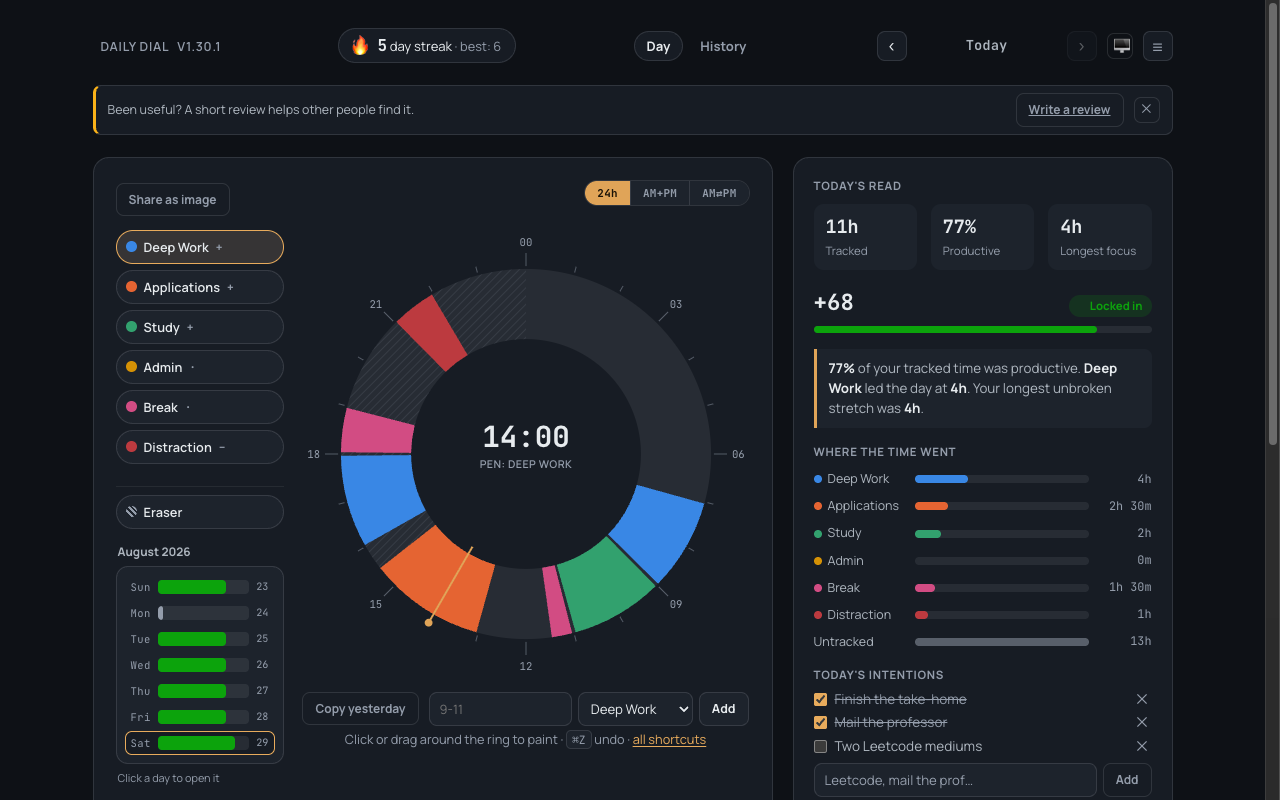
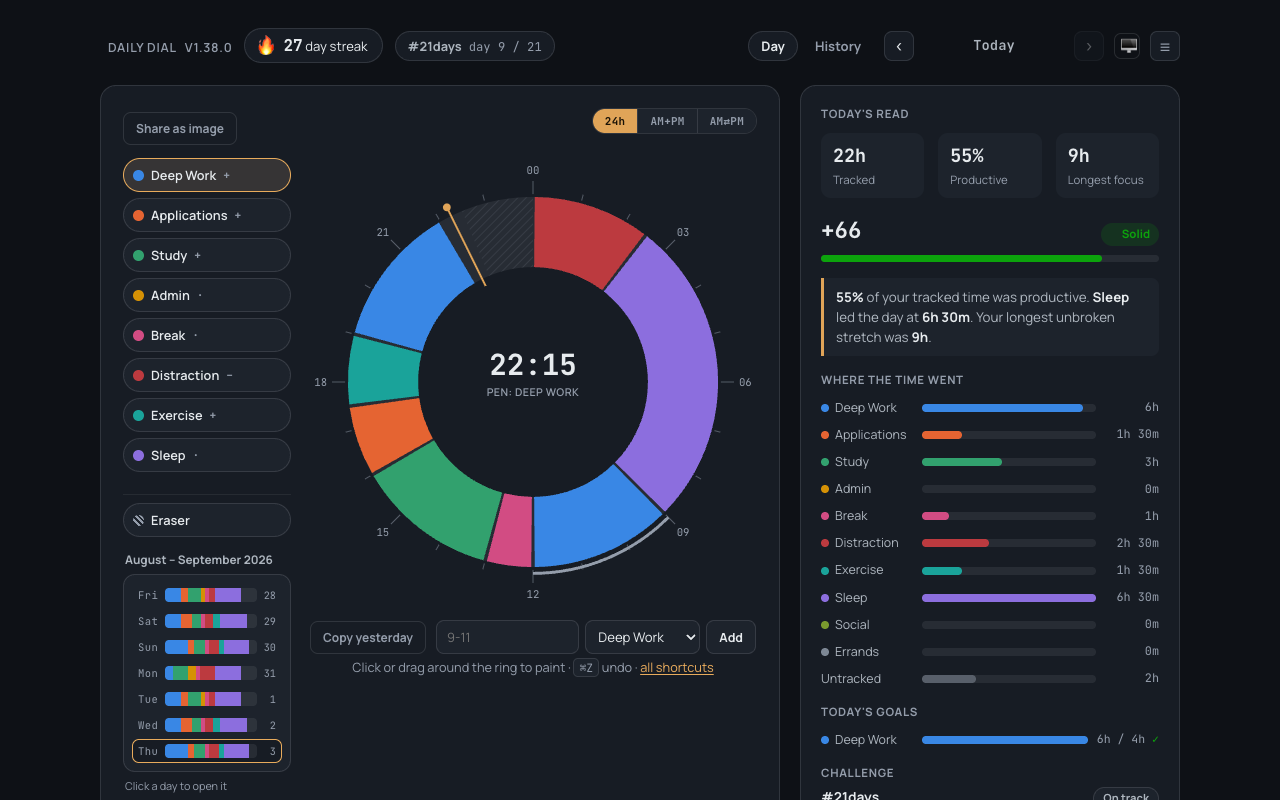
Bring the docs, the listings and the screenshots up to the product
The written record had drifted behind three releases. The README and
the About page still described six category slots and keys 1-6; both
store listings said the same in the text people actually read before
installing; the tour page described a category editor without colours;
and the FAQ had nothing on challenges. All corrected, including the
new sections for challenges and category colours.

The store screenshots were the worse problem. They were made by hand
at v1.31.0 and had been advertising a scoring rule the app no longer
uses, a layout it no longer has, and six categories where there are
now ten. Nothing caught it because a screenshot cannot fail a build.
npm run shots regenerates all four from the running extension at the
1280x800 the Store demands, so the next drift is one command away from
being fixed rather than an afternoon.

Three bugs in that script, each caught by looking at the output rather
than trusting the run:

The second shot used a selector that does not exist, scrolled nowhere,
and wrote a byte-identical copy of the first. It now aims at a real
element and fails loudly if the two files match.

Aiming at an element near the bottom of a short page scrolled past the
content and photographed the empty space underneath it.

And captureScreenshot's `clip` is in page coordinates, not viewport
ones, so a clipped capture returns the top of the document however far
the page has scrolled -- which is why the scrolled shot kept coming
[…]

diff --git a/docs/about.md b/docs/about.md
@@ -27,16 +27,18 @@ the hours actually went toward the applications.
 |---|---|
 | **Paint** | Pick a category, then click or drag around the ring |
 | **Erase** | Choose the Eraser pen, or press <kbd>0</kbd>/<kbd>E</kbd>, then drag over a block |
-| **Pick a pen** | Click one, or press <kbd>1</kbd>–<kbd>6</kbd> |
+| **Pick a pen** | Click one, or press <kbd>1</kbd>–<kbd>9</kbd> |
 | **Type an entry** | `9-11 deep work`, `13:30-15 applications`, `9pm-11pm study` — or your own alias, e.g. `9-11 leetcode` |
-| **Category aliases** | Link your own words to a category (Settings → Categories) so typed entries recognize them |
+| **Category aliases** | Link your own words to a category (Settings → Categories) so typed entries recognize them — hover a pen to see what it answers to |
 | **Copy yesterday** | Fills today from the previous day; confirms before overwriting |
 | **Undo / redo** | <kbd>⌘Z</kbd> / <kbd>⇧⌘Z</kbd> (<kbd>Ctrl+Z</kbd> / <kbd>Ctrl+Shift+Z</kbd>) — 30 deep |
 | **Past days** | Arrows beside the date, or click a bar in the week strip |
-| **History** | A month heatmap, month summary, week-over-week deltas, per-category trends, and search across your notes — the History tab beside Day |
+| **History** | A month heatmap, month summary, week-over-week deltas, per-category trends, and search across your notes — the History tab beside Day. Colour the month by score, by hours logged, or by the category each day led with |
 | **Dial layout** | One 24-hour ring, two 12-hour AM/PM rings side by side, or one 12-hour ring with a switch — pick one via the quick switcher above the dial, or Settings → Appearance |
 | **Toolbar badge** | Today's score on the extension icon itself, coloured to match — no click needed |
 | **Streaks** | 🔥 counts any day with at least one block; one missed day a week is forgiven |
+| **Challenges** | A named run of consecutive days with a goal of your own — anything logged, minutes of a category, or a score. It says how many days in a row you have kept, whether today counts, and whether the run is still alive |
+| **Category colours** | Click the swatch in Settings → Categories. The ring, pens, week strip, bars, calendar and shared image all follow |
 | **Goals** | Optional per-category targets, daily or weekly, with progress shown in the side panel |
 | **Waking hours** | The "still unlogged" nag only counts time inside this window, so sleep isn't mistaken for a gap |
 | **Reminders** | Two a day plus an optional weekly recap, all off by default, times are yours |
@@ -81,13 +83,21 @@ instead of silently flattering your numbers.
 
 ### Categories
 
-Six slots, renameable, reweightable, hideable. Days store the slot *index*, not
-the name, so renaming a category never rewrites your history.
+Ten slots, renameable, reweightable, hideable, and each with a colour of its
+own. Days store the slot *index*, not the name, so renaming a category never
+rewrites your history — and never repaints a day you logged months ago.
 
-The defaults assume a job or university search — **Deep Work, Applications,
-Study, Admin, Break, Distraction** — with Applications broken out deliberately,
-so you can see at a glance whether you actually spent time on applications or
-only on studying.
+Six are on by default and assume a job or university search — **Deep Work,
+Applications, Study, Admin, Break, Distraction** — with Applications broken out
+deliberately, so you can see at a glance whether you actually spent time on
+applications or only on studying.
+
+Four more are there and switched off: **Exercise, Sleep, Social, Errands**. The
+app's own observations suggest repurposing an unused category for a life area
+going untracked, which is no advice at all to someone already using all six.
+
+Click a category's swatch to give it a colour; the ↺ beside it hands the slot
+back to the default, which also puts it back under the theme's control.
 
 ### Languages
 

diff --git a/README.md b/README.md
@@ -100,16 +100,18 @@ first time you open it.
 |---|---|
 | **Paint** | Pick a category, then click or drag around the ring |
 | **Erase** | Choose the Eraser pen, or press <kbd>0</kbd>/<kbd>E</kbd>, then drag over a block |
-| **Pick a pen** | Click one, or press <kbd>1</kbd>–<kbd>6</kbd> |
+| **Pick a pen** | Click one, or press <kbd>1</kbd>–<kbd>9</kbd> |
 | **Type an entry** | `9-11 deep work`, `13:30-15 applications`, `9pm-11pm study` — or your own alias, e.g. `9-11 leetcode` |
-| **Category aliases** | Link your own words to a category (Settings → Categories) so typed entries recognize them |
+| **Category aliases** | Link your own words to a category (Settings → Categories) so typed entries recognize them — hover a pen to see what it answers to |
 | **Copy yesterday** | Fills today from the previous day; confirms before overwriting |
 | **Undo / redo** | <kbd>⌘Z</kbd> / <kbd>⇧⌘Z</kbd> (<kbd>Ctrl+Z</kbd> / <kbd>Ctrl+Shift+Z</kbd>) — 30 deep |
 | **Past days** | Arrows beside the date, or click a bar in the week strip |
-| **History** | A month heatmap, month summary, week-over-week deltas, per-category trends, and search across your notes — the History tab beside Day |
+| **History** | A month heatmap, month summary, week-over-week deltas, per-category trends, and search across your notes — the History tab beside Day. Colour the month by score, by hours logged, or by the category each day led with |
 | **Dial layout** | One 24-hour ring, two 12-hour AM/PM rings side by side, or one 12-hour ring with a switch — pick one via the quick switcher above the dial, or Settings → Appearance |
 | **Toolbar badge** | Today's score on the extension icon itself, coloured to match — no click needed |
 | **Streaks** | 🔥 counts any day with at least one block; one missed day a week is forgiven |
+| **Challenges** | A named run of consecutive days with a goal of your own — anything logged, minutes of a category, or a score. It says how many days in a row you have kept, whether today counts, and whether the run is still alive |
+| **Category colours** | Click the swatch in Settings → Categories. The ring, pens, week strip, bars, calendar and shared image all follow |
 | **Goals** | Optional per-category targets, daily or weekly, with progress shown in the side panel |
 | **Waking hours** | The "still unlogged" nag only counts time inside this window, so sleep isn't mistaken for a gap |
 | **Reminders** | Two a day plus an optional weekly recap, all off by default, times are yours |
@@ -154,13 +156,21 @@ instead of silently flattering your numbers.
 
 ### Categories
 
-Six slots, renameable, reweightable, hideable. Days store the slot *index*, not
-the name, so renaming a category never rewrites your history.
+Ten slots, renameable, reweightable, hideable, and each with a colour of its
+own. Days store the slot *index*, not the name, so renaming a category never
+rewrites your history — and never repaints a day you logged months ago.
 
-The defaults assume a job or university search — **Deep Work, Applications,
-Study, Admin, Break, Distraction** — with Applications broken out deliberately,
-so you can see at a glance whether you actually spent time on applications or
-only on studying.
+Six are on by default and assume a job or university search — **Deep Work,
+Applications, Study, Admin, Break, Distraction** — with Applications broken out
+deliberately, so you can see at a glance whether you actually spent time on
+applications or only on studying.
+
+Four more are there and switched off: **Exercise, Sleep, Social, Errands**. The
+app's own observations suggest repurposing an unused category for a life area
+going untracked, which is no advice at all to someone already using all six.
+
+Click a category's swatch to give it a colour; the ↺ beside it hands the slot
+back to the default, which also puts it back under the theme's control.
 
 ### Languages
 

diff --git a/docs/STORE_LISTING.md b/docs/STORE_LISTING.md
@@ -78,12 +78,15 @@ search does not surface it on its own.
 ✅ Daily Dial: one drag. Fast enough for every day, honest enough to catch everything.
 
 ✍ HOW IT WORKS
-🖱 Drag around the ring to paint — or press 1-6 for a pen, 0/E for the eraser
+🖱 Drag around the ring to paint — or press 1-9 for a pen, 0/E for the eraser
 ⌨ Type it instead: "9-11 deep work" or "9pm-11pm study"
 ↩ Ctrl+Z / Cmd+Z undoes one stroke at a time, 30 deep — Ctrl+Shift+Z redoes
 📋 Copy yesterday into today in one click
 🧭 A live needle always marks "now"
 📅 Jump days with the arrows, or click any bar in the 7-day strip
+
+📅 A MONTH AT A GLANCE
+Colour the History calendar three ways — by score, by hours logged, or by the category each day led with. "How did it go" and "what was this month made of" are different questions.
 
 📊 WAS TODAY ACTUALLY PRODUCTIVE?
 🎯 A daily score, from your categories' weights
@@ -94,12 +97,15 @@ search does not surface it on its own.
 
 🔥 STAY WITH IT
 🔥 Streak counter — one missed day a week forgiven, so one slip doesn't cost you weeks
+🏁 Challenges — a named run of consecutive days with a goal you set: anything logged, minutes of a category, or a daily score. It tells you how many days in a row you've kept, whether today counts, and whether the run is still alive. Miss a day and it says so — a run that tolerates gaps isn't a run
 🎯 Optional daily goals per category, with a progress bar
 📬 Optional weekly recap: time tracked, top category, best day, streak
 
 🎨 MADE YOUR OWN
-6 category slots — rename, reweight, hide the ones you don't use.
-Defaults: Deep Work · Applications · Study · Admin · Break · Distraction
+10 category slots — rename, reweight, recolour, hide the ones you don't use.
+On by default: Deep Work · Applications · Study · Admin · Break · Distraction
+There and switched off: Exercise · Sleep · Social · Errands
+🎨 Click a category's swatch to pick its colour — the ring, week strip, calendar and shared image all follow
 🔒 Renaming is safe — days store the slot, never the name, so history never rewrites.
 
 🌍 IN YOUR LANGUAGE
@@ -147,15 +153,21 @@ MIT licensed. A few small files of plain, unminified JavaScript — readable in 
 | Asset | Size | Required | File |
 |---|---|---|---|
 | Store icon | 128×128 PNG | Yes | `icons/icon-128.png` |
-| Screenshot | 1280×800 PNG | Yes (1–5) | `docs/store/screenshot-*.png` |
+| Screenshot | 1280×800 PNG | Yes (1–5) | `docs/store/screenshot-*.png` — run `npm run shots` |
 | Small promo tile | 440×280 PNG | For featuring | `docs/store/promo-440x280.png` |
 | Marquee promo tile | 1400×560 PNG | For featuring | `docs/store/promo-1400x560.png` |
 
 Screenshot captions, in order:
 
 1. *Paint a day in seconds — pick a category and drag around the ring*
-2. *See whether the time went where you meant it to*
-3. *Make the categories yours, and set two gentle daily reminders*
+2. *See whether the time went where you meant it to, and how the run is going*
+3. *A month at a glance, coloured by score, hours, or what each day was spent on*
+4. *Ten categories, each with its own colour, weight and words*
+
+`npm run shots` regenerates all four from the running extension at the size
+the Store requires. They were hand-made once and went stale for months —
+advertising a scoring rule the app had replaced — which nothing caught,
+because a screenshot cannot fail a build.
 
 ---
 

diff --git a/docs/AMO_LISTING.md b/docs/AMO_LISTING.md
@@ -118,13 +118,17 @@ Daily Dial asks for one drag. Fast enough to do every day, honest enough to catc
 
 HOW IT WORKS
 
-• Drag around the ring to paint — or press 1-6 for a pen, 0 or E for the eraser
+• Drag around the ring to paint — or press 1-9 for a pen, 0 or E for the eraser
 • Type it instead: "9-11 deep work" or "9pm-11pm study"
 • Ctrl+Z / Cmd+Z undoes one stroke at a time, 30 deep — Ctrl+Shift+Z redoes
 • Ctrl+Shift+Y / Cmd+Shift+Y opens the dial from anywhere (rebindable)
 • Copy yesterday into today in one click
 • A live needle always marks "now"
 • Jump days with the arrows, or click any bar in the 7-day strip
+
+A MONTH AT A GLANCE
+
+Colour the History calendar by score, by hours logged, or by the category each day led with. "How did it go" and "what was this month made of" are different questions, and one scale cannot answer both.
 
 WAS TODAY ACTUALLY PRODUCTIVE?
 
@@ -137,13 +141,17 @@ WAS TODAY ACTUALLY PRODUCTIVE?
 STAY WITH IT
 
 • A streak counter that forgives one missed day a week, so one slip doesn't cost you a month
+• Challenges — a named run of consecutive days with a goal you set. It says how many you have kept in a row, whether today counts, and whether the run can still be finished. One missed day ends it, because a run that tolerates gaps is not a run
 • Optional daily goals per category, with a progress bar
 • An optional weekly recap: time tracked, top category, best day, streak
 
 MADE YOUR OWN
 
-Six category slots — rename them, reweight them, hide the ones you don't use.
-Defaults: Deep Work, Applications, Study, Admin, Break, Distraction.
+Ten category slots — rename them, reweight them, recolour them, hide the ones you don't use.
+On by default: Deep Work, Applications, Study, Admin, Break, Distraction.
+There and switched off: Exercise, Sleep, Social, Errands.
+
+Click a category's swatch to pick its colour. The ring, the week strip, the calendar and the shared image all follow.
 
 Renaming is safe. Days store the slot, never the name, so your history never rewrites itself behind you.
 

diff --git a/docs/tour.md b/docs/tour.md
@@ -20,11 +20,31 @@ Three cards, then you are painting. Everything except painting is optional.
 
 ## Categories are yours
 
-Six slots — rename them, change whether each counts for or against your
-score, hide the ones you do not use. Days store the slot, never the name, so
-renaming never rewrites your history.
+Ten slots — rename them, recolour them, change whether each counts for or
+against your score, hide the ones you do not use. Days store the slot, never
+the name, so renaming never rewrites your history, and never repaints a day
+you logged months ago.
+
+Six are on to begin with. Four more — Exercise, Sleep, Social, Errands — are
+there and switched off, for the life areas the app's own observations most
+often point at.
+
+Each category's swatch is its colour picker. Change one and the ring, the
+pens, the week strip, the bars, the calendar and the shared image all follow;
+the ↺ beside it hands the slot back to the default.
 
 ![The category editor, with aliases](getting-started/03-settings-categories.png)
+
+## A run you can actually keep
+
+A challenge is a named stretch of consecutive days with a goal you set —
+anything logged at all, so many minutes of one category, or a daily score.
+
+The card says how many days in a row you have kept, what the goal is, whether
+the day you are looking at counts, and whether the run can still be finished.
+One missed day ends it and it tells you which day: a run that tolerates gaps
+is a weaker thing wearing the same name. When it breaks, one button starts the
+same challenge again from today.
 
 ## Your data, and getting it out
 

diff --git a/docs/faq.md b/docs/faq.md
@@ -54,3 +54,26 @@ Yes, and open source under the MIT licence. No ads, analytics, telemetry, or pai
 It doesn't block sites, enforce anything, auto-capture what you're doing, manage tasks, or connect to your calendar. It shows you where the time went and stops there. Guides on the site cover tools that handle the blocking part.
 
 Still stuck? [Open an issue](https://github.com/pranav083/daily-dial-extension/issues/new/choose) — questions are welcome, not just bugs.
+
+## Can I change a category's colour?
+
+Yes. Settings → Categories, and click the swatch beside a category's name —
+that swatch is the picker. The ring, the pens, the week strip, the bars, the
+History calendar and the shared image all change together. The ↺ beside it
+puts the slot back to its default, which also puts it back under the theme's
+control, so it follows light and dark again.
+
+## How many categories are there?
+
+Ten slots. Six are on to begin with; Exercise, Sleep, Social and Errands are
+there and switched off. Days store the slot rather than the name, so renaming
+or recolouring a category never rewrites history.
+
+## What happens if I miss a day of a challenge?
+
+It ends, and the card says which day it ended on and how long your best run
+was. That is deliberate: twenty-one days means twenty-one days in a row, and a
+run that tolerates gaps is a weaker thing wearing the same name. One button
+restarts the same challenge from today.
+
+Today never breaks a run, because today is not over yet.
